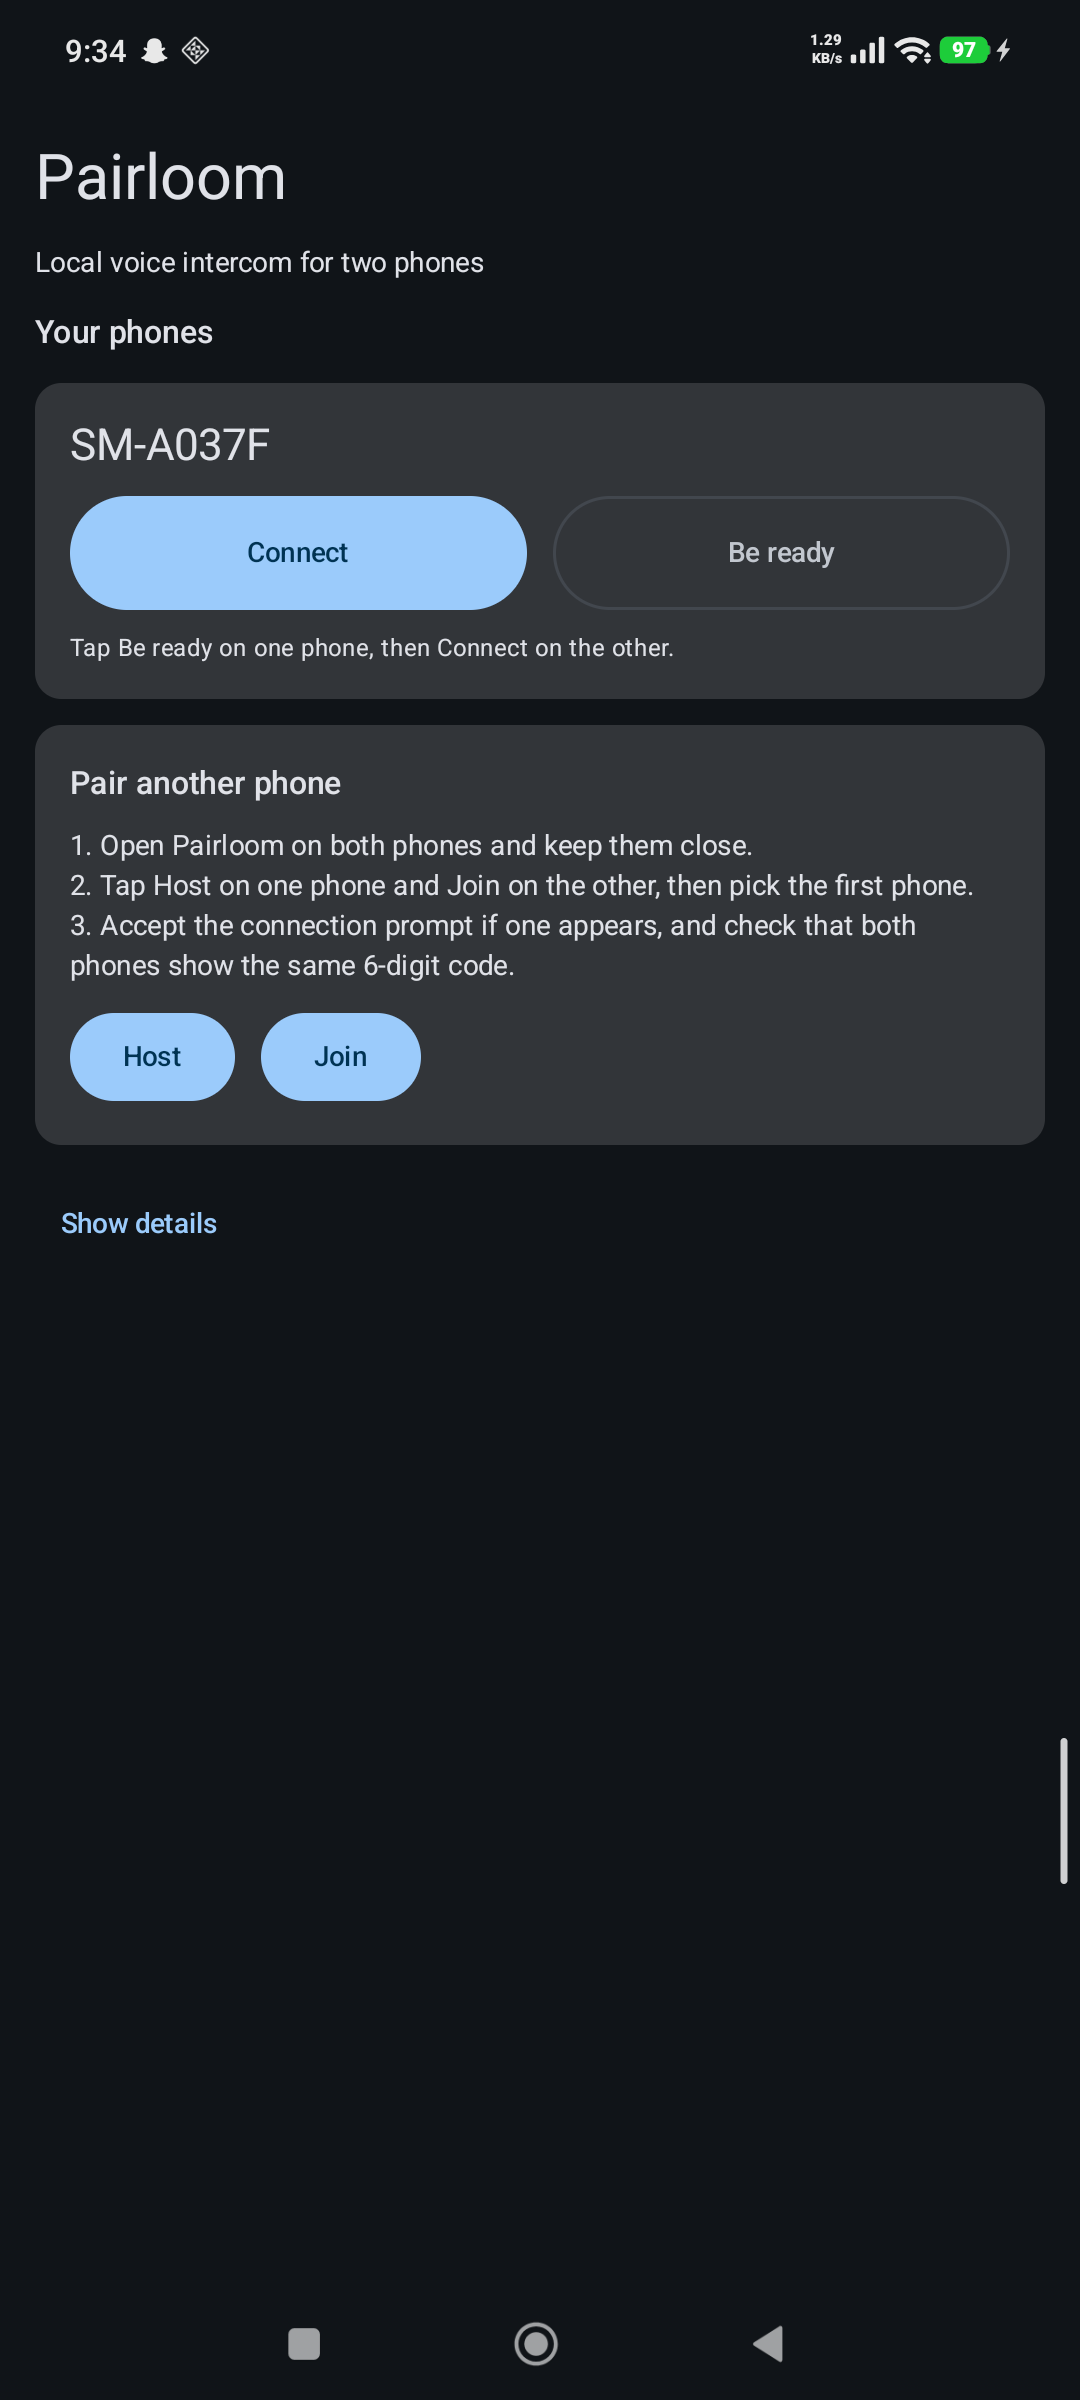
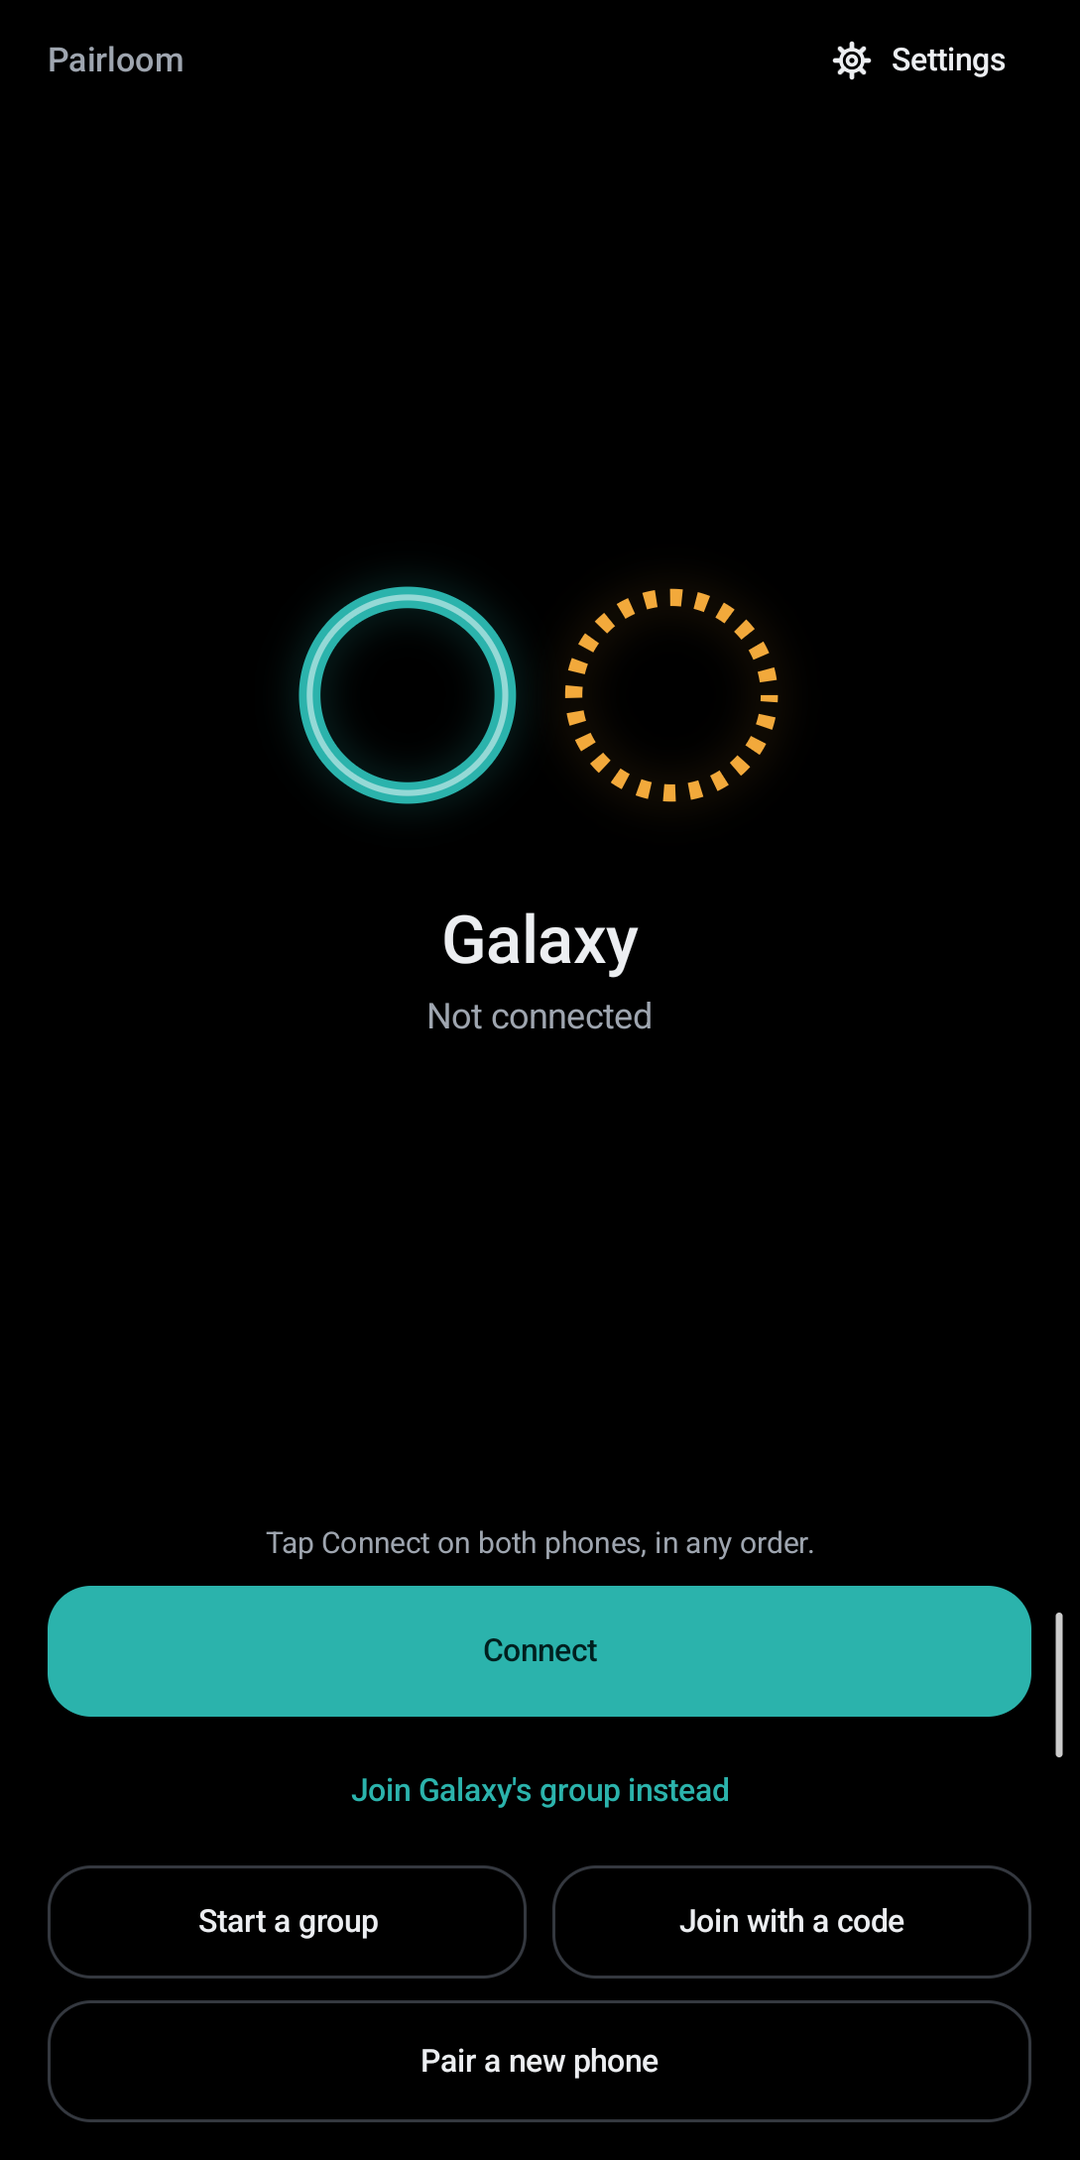
Release polish: own screen for a failed code join, clearer joining step, Android 8-9 told up front; store screenshots retaken at 2:1 from the release build

diff --git a/app/src/main/java/com/anupshrestha/pairloom/ui/ConnectionScreen.kt b/app/src/main/java/com/anupshrestha/pairloom/ui/ConnectionScreen.kt
@@ -120,6 +120,8 @@ class ConnectionActions(
     val onStartCodeGroup: () -> Unit = {},
     /** "Join with a code"; false if the text is not a join code. */
     val onJoinWithCode: (String) -> Boolean = { false },
+    /** "Back" from a failed code join. */
+    val onDismissCodeProblem: () -> Unit = {},
     /** The talk button was pressed (true) or released (false). */
     val onTalk: (Boolean) -> Unit,
     val onToggleOpus: () -> Unit,
@@ -176,6 +178,7 @@ fun ConnectionScreen(ui: LinkUiState, actions: ConnectionActions, modifier: Modi
             link is LinkState.Pairing -> Screen.PAIRING
             link is LinkState.Discovering && ui.waitingFor == null && ui.joinCode == null -> Screen.DISCOVERING
             link is LinkState.Discovering || link is LinkState.Hosting || link is LinkState.Connecting || link is LinkState.OpeningSocket -> Screen.CONNECTING
+            ui.codeProblem && !link.isActive -> Screen.CODE_FAILED
             pairingNew || device == null -> Screen.NEW_PHONE
             else -> Screen.HOME
         }
@@ -196,6 +199,7 @@ fun ConnectionScreen(ui: LinkUiState, actions: ConnectionActions, modifier: Modi
                         val code = ui.joinCode
                         if (code != null) CodeConnecting(link, code, actions) else Connecting(link, ui.waitingFor, actions)
                     }
+                    Screen.CODE_FAILED -> CodeFailed(ui, actions)
                     Screen.NEW_PHONE -> NewPhone(firstTime = device == null, ui = ui, actions = actions, onCancel = { pairingNew = false })
                     Screen.HOME -> device?.let { Home(it, ui, actions, onSelect = { fp -> selected = fp }, onPairNew = { pairingNew = true }) }
                 }
@@ -204,7 +208,7 @@ fun ConnectionScreen(ui: LinkUiState, actions: ConnectionActions, modifier: Modi
     }
 }
 
-private enum class Screen { RECONNECTING, INCOMING, CALL, PTT, LINKED, PAIRING, DISCOVERING, CONNECTING, NEW_PHONE, HOME }
+private enum class Screen { RECONNECTING, INCOMING, CALL, PTT, LINKED, PAIRING, DISCOVERING, CONNECTING, CODE_FAILED, NEW_PHONE, HOME }
 
 @Composable
 private fun TopBar(onSettings: () -> Unit) {
@@ -723,15 +727,46 @@ private fun ColumnScope.CodeConnecting(link: LinkState, code: JoinCodeUi, action
             when {
                 code.isHost -> R.string.code_host_status
                 link is LinkState.Discovering -> R.string.code_looking_status
-                else -> R.string.status_connecting_short
+                else -> R.string.code_found_status
             },
         ),
-        content = { Body(stringResource(if (code.isHost) R.string.code_host_body else R.string.code_join_body)) },
+        content = {
+            Body(
+                stringResource(
+                    when {
+                        code.isHost -> R.string.code_host_body
+                        link is LinkState.Discovering -> R.string.code_join_body
+                        else -> R.string.code_found_body
+                    },
+                ),
+            )
+        },
     ) {
         OutlinedButton(onClick = actions.onDisconnect, shape = RoundedCornerShape(20.dp), colors = outlinedOnBackground(), modifier = Modifier.fillMaxWidth().heightIn(min = 56.dp)) {
             Text(stringResource(R.string.btn_cancel), style = MaterialTheme.typography.labelLarge)
         }
     }
+}
+
+/** Joining or starting a group by code went wrong: say what happened and offer another code. */
+@Composable
+private fun ColumnScope.CodeFailed(ui: LinkUiState, actions: ConnectionActions) {
+    val problem = problemOf(ui.link)
+    var asking by rememberSaveable { mutableStateOf(false) }
+    Stage(
+        mode = RingsMode.APART,
+        title = stringResource(R.string.code_failed_title),
+        status = problem?.first ?: stringResource(R.string.status_failed),
+        statusColor = MaterialTheme.colorScheme.error,
+        content = {
+            problem?.second?.let { Body(it) }
+            LocationAndPermission(ui, actions)
+        },
+    ) {
+        BigButton(stringResource(R.string.btn_try_another_code), onClick = { asking = true }, enabled = !ui.cleaningUp)
+        SecondButton(stringResource(R.string.btn_back), actions.onDismissCodeProblem)
+    }
+    if (asking) JoinCodeDialog(actions, onClose = { asking = false })
 }
 
 /** "Start a group" and "Join with a code", side by side, with the dialog that asks for the code. */
@@ -754,11 +789,26 @@ private fun CodeGroupButtons(enabled: Boolean, actions: ConnectionActions) {
             modifier = Modifier.weight(1f).heightIn(min = 52.dp),
         ) { Text(stringResource(R.string.btn_join_with_code), style = MaterialTheme.typography.labelLarge, textAlign = TextAlign.Center) }
     }
-    if (asking) {
+    if (asking) JoinCodeDialog(actions, onClose = { asking = false })
+}
+
+/** Asks for the three words. Android 9 and older cannot join a group by code, so it says so instead. */
+@Composable
+private fun JoinCodeDialog(actions: ConnectionActions, onClose: () -> Unit) {
+    if (android.os.Build.VERSION.SDK_INT < 29) {
+        AlertDialog(
+            onDismissRequest = onClose,
+            title = { Text(stringResource(R.string.join_code_title)) },
+            text = { Text(stringResource(R.string.join_code_old_android), style = MaterialTheme.typography.bodyMedium) },
+            confirmButton = { TextButton(onClick = onClose) { Text(stringResource(R.string.btn_ok)) } },
+        )
+        return
+    }
+    run {
         var text by rememberSaveable { mutableStateOf("") }
         var wrong by rememberSaveable { mutableStateOf(false) }
         AlertDialog(
-            onDismissRequest = { asking = false },
+            onDismissRequest = onClose,
             title = { Text(stringResource(R.string.join_code_title)) },
             text = {
                 Column(verticalArrangement = Arrangement.spacedBy(8.dp)) {
@@ -776,11 +826,11 @@ private fun CodeGroupButtons(enabled: Boolean, actions: ConnectionActions) {
                 }
             },
             confirmButton = {
-                TextButton(onClick = { if (actions.onJoinWithCode(text)) asking = false else wrong = true }) {
+                TextButton(onClick = { if (actions.onJoinWithCode(text)) onClose() else wrong = true }) {
                     Text(stringResource(R.string.btn_join))
                 }
             },
-            dismissButton = { TextButton(onClick = { asking = false }) { Text(stringResource(R.string.btn_cancel)) } },
+            dismissButton = { TextButton(onClick = onClose) { Text(stringResource(R.string.btn_cancel)) } },
         )
     }
 }

diff --git a/app/src/main/java/com/anupshrestha/pairloom/session/LinkViewModel.kt b/app/src/main/java/com/anupshrestha/pairloom/session/LinkViewModel.kt
@@ -201,6 +201,7 @@ class LinkViewModel(application: Application) : AndroidViewModel(application) {
     fun start(role: Role) {
         // A paired session (Host, Join, Connect) is not a code group.
         if (!_ui.value.link.isActive && !_ui.value.cleaningUp && codeGroup != null) setCodeGroup(null)
+        dismissCodeProblem()
         startSession(role)
     }
 
@@ -588,7 +589,12 @@ class LinkViewModel(application: Application) : AndroidViewModel(application) {
 
     private fun setCodeGroup(g: CodeGroup?) {
         codeGroup = g
-        _ui.update { it.copy(joinCode = g?.let { c -> JoinCodeUi(c.code.spoken, c.isHost) }) }
+        _ui.update { it.copy(joinCode = g?.let { c -> JoinCodeUi(c.code.spoken, c.isHost) }, codeProblem = false) }
+    }
+
+    /** "Back" from a failed code join: the normal start screen again. */
+    fun dismissCodeProblem() {
+        _ui.update { it.copy(codeProblem = false) }
     }
 
     /** "Start a group": a new join code, and this phone hosts. RECORD_AUDIO is already granted. */
@@ -1955,7 +1961,9 @@ class LinkViewModel(application: Application) : AndroidViewModel(application) {
                 }
             } else {
                 // Ended, cancelled, or failed outside reconnecting: the code group is over.
+                val badly = finalState is LinkState.Failed || (finalState is LinkState.Disconnected && finalState.reason != DisconnectReason.LOCAL)
                 setCodeGroup(null)
+                if (badly) _ui.update { it.copy(codeProblem = true) }
             }
         }
     }

diff --git a/app/src/main/java/com/anupshrestha/pairloom/MainActivity.kt b/app/src/main/java/com/anupshrestha/pairloom/MainActivity.kt
@@ -83,6 +83,7 @@ class MainActivity : ComponentActivity() {
             onPushToTalk = { withMicrophone(viewModel::startPushToTalk) },
             onGroupTalk = { withMicrophone(viewModel::startGroupTalk) },
             onToggleVirtualPhone = viewModel::toggleVirtualPhone,
+            onDismissCodeProblem = viewModel::dismissCodeProblem,
             onStartCodeGroup = { requestThen { withMicrophone(viewModel::startCodeGroup) } },
             onJoinWithCode = { text ->
                 // Checked here, so the dialog can say so; the permissions are asked for after.

diff --git a/app/src/main/java/com/anupshrestha/pairloom/session/LinkState.kt b/app/src/main/java/com/anupshrestha/pairloom/session/LinkState.kt
@@ -236,6 +236,8 @@ data class LinkUiState(
     val groupEndedBy: String? = null,
     /** A group joined by code (Phase 7, G6), while it lasts. */
     val joinCode: JoinCodeUi? = null,
+    /** A group joined or started by code failed or ended badly; the screen offers another code. */
+    val codeProblem: Boolean = false,
     /** The paired phone a home-screen Connect is waiting for (until the link ends). */
     val waitingFor: String? = null,
     /** Diagnostics: whether this phone offers Opus for voice. */

diff --git a/docs/plans/phase4-release.md b/docs/plans/phase4-release.md
@@ -114,9 +114,9 @@ interrupting phone call) carry over and are done in R5.
 - `docs/play/play-console-answers.md`: store listing text, Data safety ("no data collected or
   shared", with the fallback answer if Google counts device-to-device audio), app access
   instructions for reviewers (two phones needed), content rating and target audience answers.
-- `docs/play/screenshots/`: home, linked, call and push-to-talk from the Redmi (1080x2400). These
-  are drafts. Retake with a clean status bar (Android's demo mode) and real device names for the
-  store.
+- `docs/play/screenshots/`: retaken 2026-10-28 from the release build on the Redmi: home, a group's
+  join code, group talk, linked, call and push-to-talk. The status and navigation bars are cut off
+  and the images are 1080x2160 (Play allows at most 2:1; the phone's 1080x2400 is not accepted).
 
 ## Needs the user (to finish Phase 4)
 1. **Upload key**: create it and `keystore.properties` as in `docs/release.md`, then run

diff --git a/docs/plans/phase7-group.md b/docs/plans/phase7-group.md
@@ -322,3 +322,15 @@ Older sections above keep the words they were written with.
 - **Not checked**: more than one code group in range, and rejoining a code group after a drop.
 - **Version**: 0.7.0 (code 7). The store listing and privacy policy drafts now describe groups and
   join codes.
+
+## Release polish (2026-10-28)
+- **Wrong or failed code**: its own screen ("Joining the group", what went wrong, Try another
+  code, Back), not the paired-phone screen.
+- **Joining**: once the group is found, "Found the group. Connecting…" and "This can take up to
+  half a minute".
+- **Android 8-9**: Join with a code explains that these versions cannot join by code (they can
+  still start a group).
+- **Release build on the phones** (profile build: release code, debug key): the join-code check
+  passed all four steps (Bouncy Castle's J-PAKE works after R8), and a paired call linked, rang,
+  was answered and carried audio.
+- **Store screenshots** retaken (see Phase 4).
